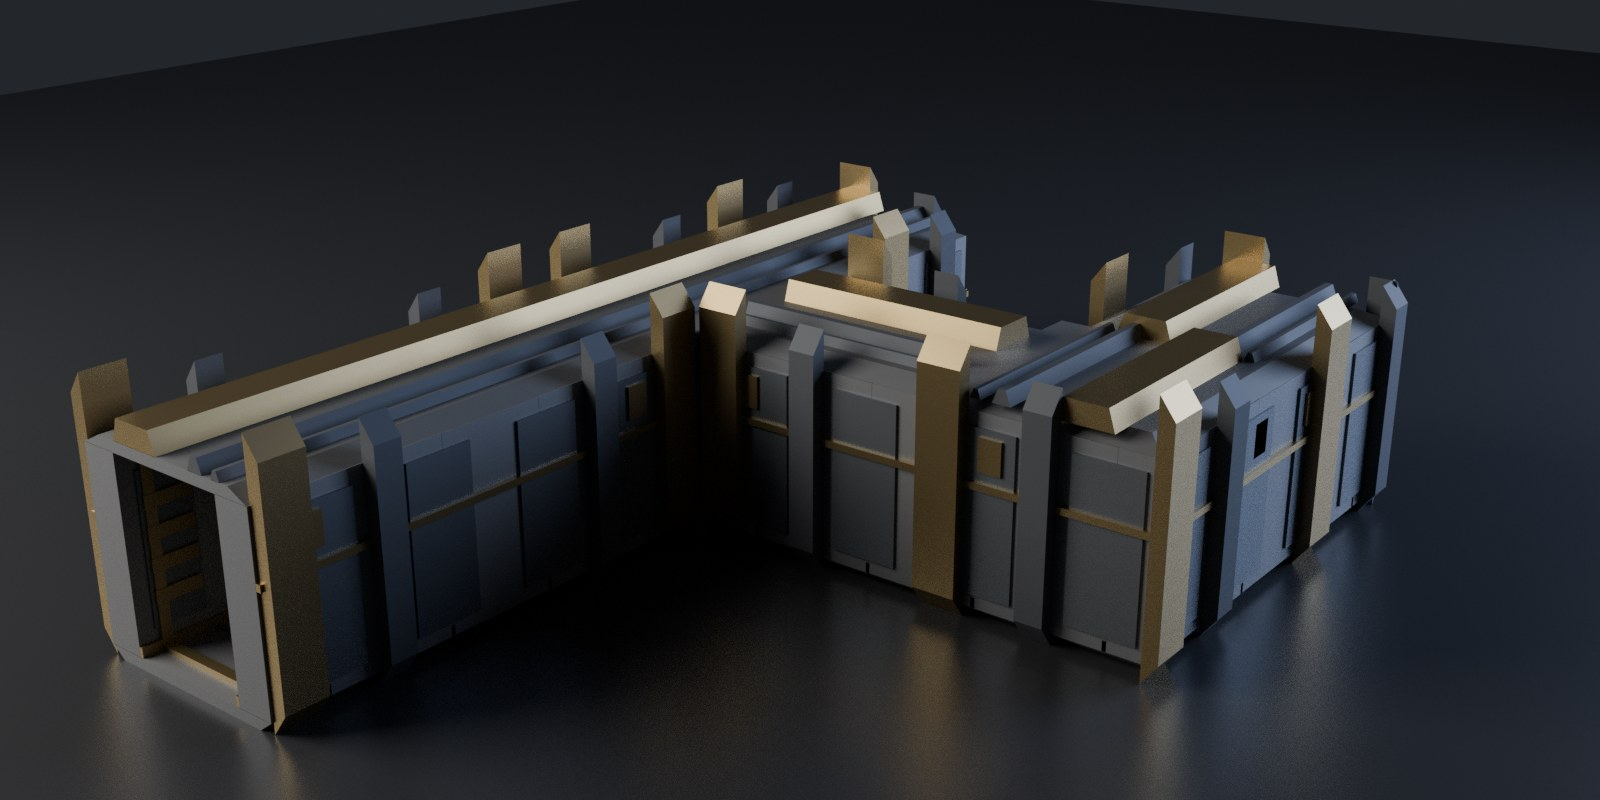
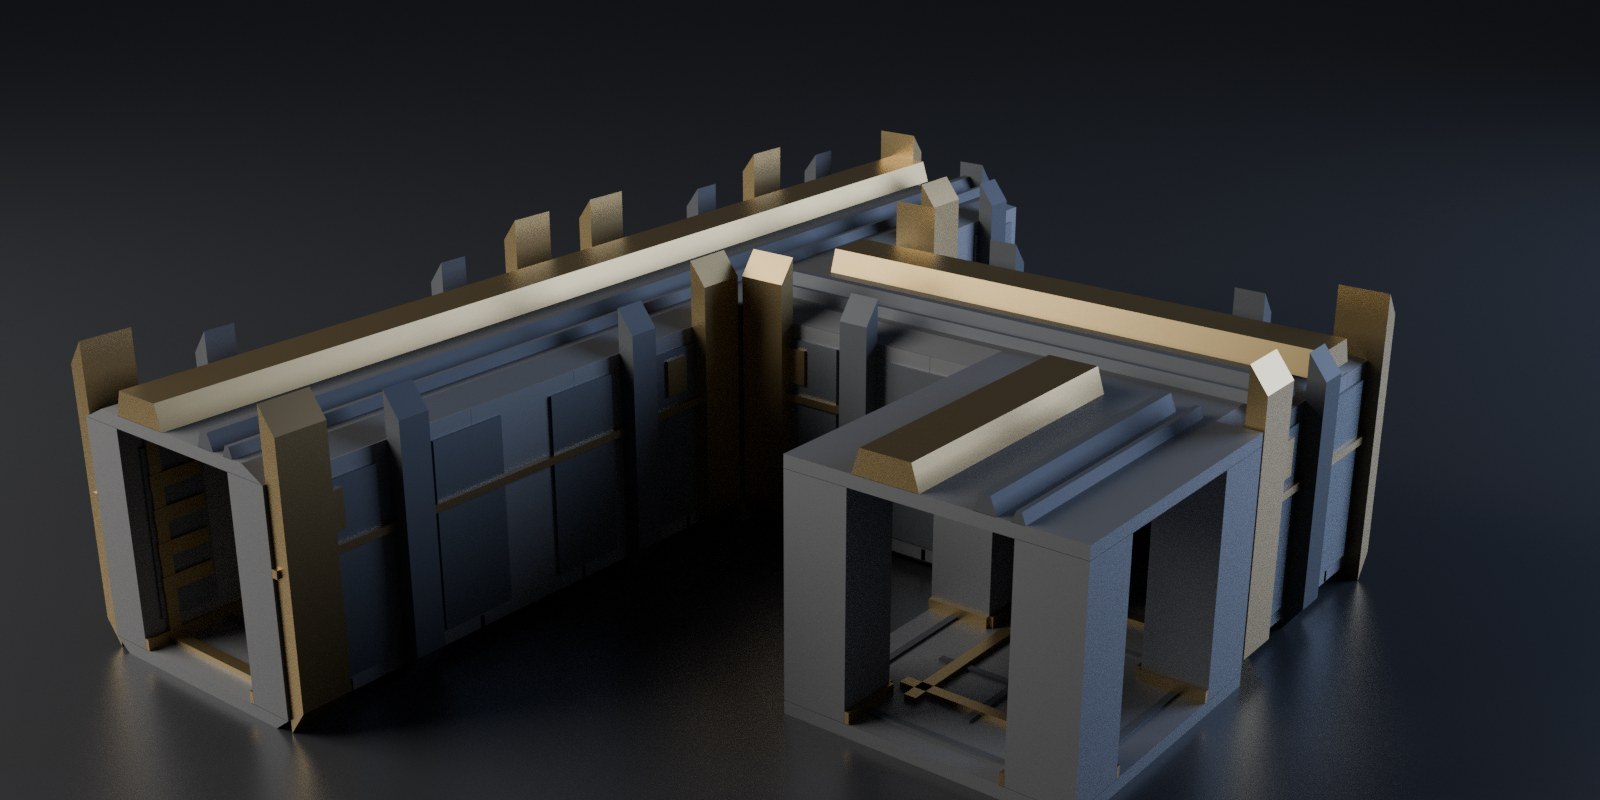
site: refresh current_facts, product_images, sitemap.xml
Written by ops/marketing/publish_site.refresh, which applies only idempotent fixes and reports each one separately. Every claim in the structured data is one the page already makes.

Changed region(s): [[0.0312, 0.1562, 0.9062, 1.0], [0.1875, 0.9375, 0.2188, 1.0]]

diff --git a/docs/index.html b/docs/index.html
@@ -177,8 +177,8 @@
   </p>
 
   <figure>
-    <img src="img/kit_layout.jpg" alt="Seven corridor modules assembled into an L with a side branch, lit from above and to the left">
-    <figcaption>Seven modules, five of the six piece types, one assembly. 540 to 696 triangles each. The crossroads arrived after this render and is not in it.</figcaption>
+    <img src="img/kit_layout.jpg" alt="Seven corridor modules assembled into an L, with a four way crossroads open on three sides at the near end of the side branch, lit from above and to the left">
+    <figcaption>Seven modules, all six piece types, one assembly. 540 to 696 triangles each. The crossroads terminates the side branch, and it is the one piece you can see straight through.</figcaption>
   </figure>
 
   <!-- kit-clip -->
